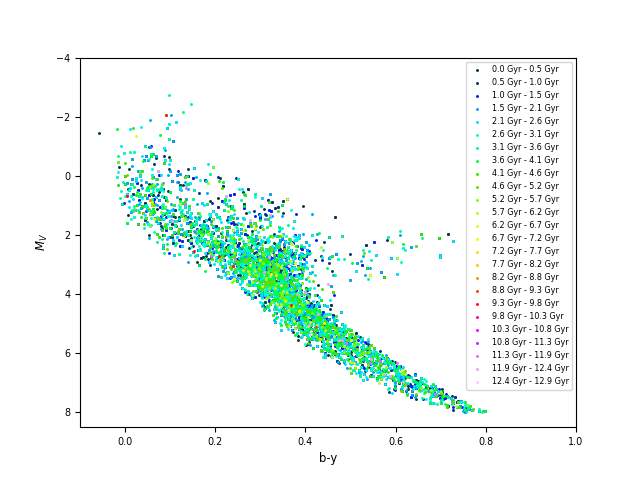
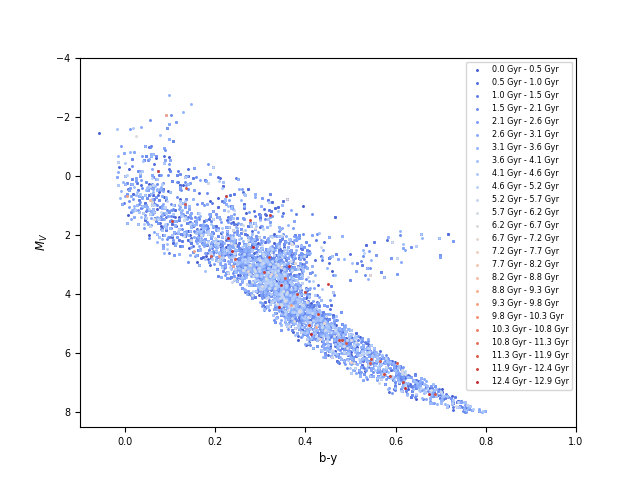
Alcuni cambiamenti erano stati tralasciati...

Changed region(s): [[0.1875, 0.2812, 0.75, 0.875], [0.5625, 0.5, 0.5938, 0.5625], [0.625, 0.5, 0.6562, 0.5312]]

diff --git a/l4/es2.py b/l4/es2.py
@@ -60,7 +60,7 @@ mpl.clf()
 # Creo un array con quanti colori voglio. Uso seaborn.
 
 nc = 25
-palette = sb.color_palette('gist_ncar', nc)
+palette = sb.color_palette('coolwarm', nc)
 
 # Devo usare l'array 'data' per associare a ciascuna coppia (m, b) il colore giusto.
 # Cerco minimo e massimo del vettore 'age_parent' (data[2]).
